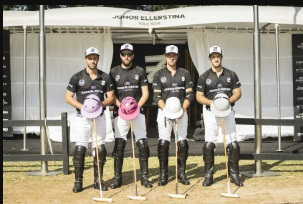
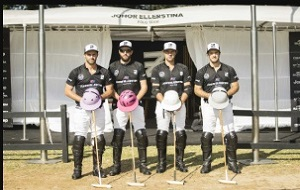
Actualizar imagenes secundarias

diff --git a/css/estilos.css b/css/estilos.css
@@ -37,12 +37,14 @@ h2,h3{
 .paisajes{
     margin: 2%
     text-align: left;
-    width: 45%;
+    width: 46%;
+    border: 1px;
 }
 .retratos{
     margin: 2%;
     text-align: right;
-    width: 45%;
+    width: 46%;
+    border: 1px;
 }
 
 @media (min-width< 800px) {
